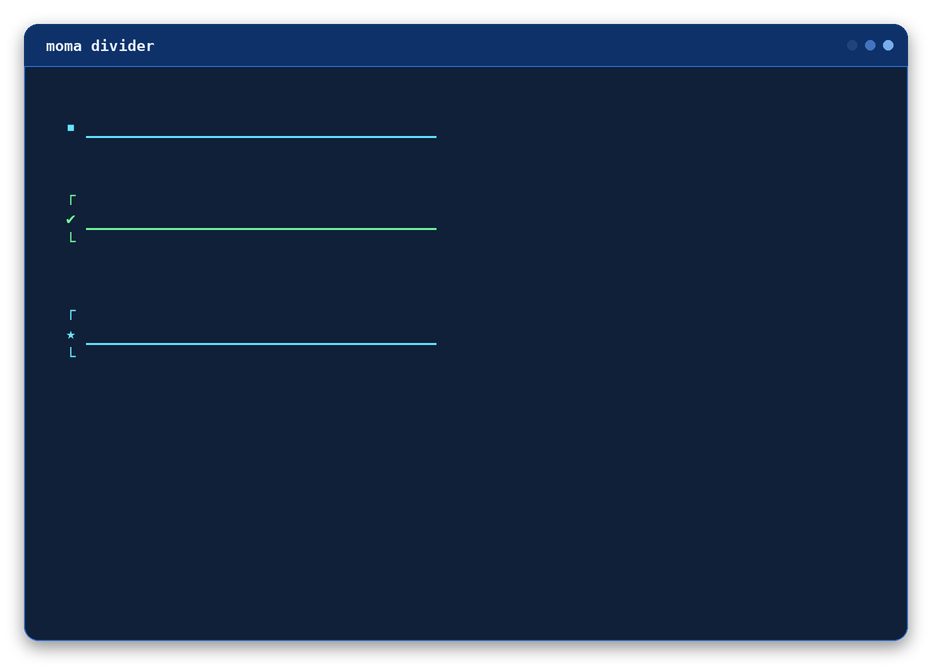
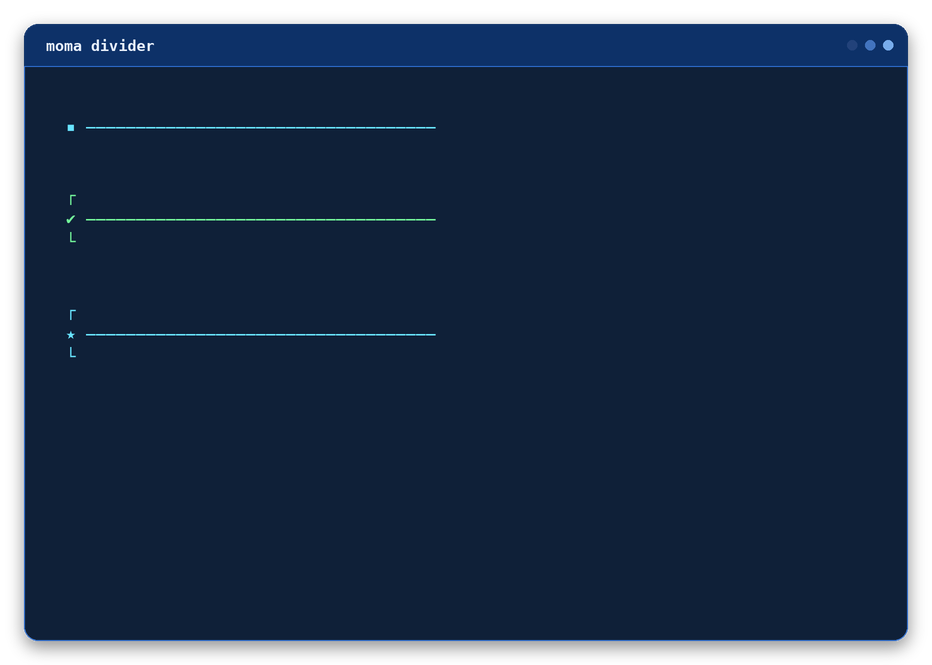
🐛 fix(divider): use em dash instead of the low scan-line character
⎼ (U+23BC HORIZONTAL SCAN LINE-9) sits near the bottom of the cell, not
centered, and looked broken in real terminals. Switch to — (em dash),
which most fonts render as a solid, vertically-centered rule and is
natively covered by the screenshot generator's font too, so the
render.py geometry fallback added for it is no longer needed and is
reverted.

Changed region(s): [[0.0933, 0.3308, 0.4667, 0.3609], [0.0933, 0.1805, 0.4667, 0.2105]]

diff --git a/web/src/data/apiEntries.ts b/web/src/data/apiEntries.ts
@@ -272,7 +272,7 @@ export const API_ENTRIES: ApiEntryData[] = [
     id: 'moma-divider',
     kind: 'Rule component',
     name: 'divider',
-    descriptionHtml: 'Marker-led horizontal rule, for separating sections without a full heading. Uses <code>⎼</code> instead of the <code>─</code> box-drawing character elsewhere in Moma, and has no left box edge, only an optional bare <code>┌</code>/<code>└</code> pair framing the rule above and below.',
+    descriptionHtml: 'Marker-led horizontal rule, for separating sections without a full heading. Uses <code>—</code> (em dash) instead of the <code>─</code> box-drawing character elsewhere in Moma, and has no left box edge, only an optional bare <code>┌</code>/<code>└</code> pair framing the rule above and below.',
     signature: 'moma divider [--success|--error|--warning|--info] [--color color] [--icon char] [--no-icon] [--border mirror|line|open] [--min-width number] [--width number] [--max-width number] [--no-color]',
     searchText: 'moma-divider rule horizontal separator line icon marker border mirror line open success error warning info',
     group: 'visual',

diff --git a/screenshots/moma_screenshots/render.py b/screenshots/moma_screenshots/render.py
@@ -89,12 +89,10 @@ _BLOCK_SHADES = {
     "▒": 0.50,  # ▒ medium shade
     "▓": 0.75,  # ▓ dark shade
 }
-# U+23BA HORIZONTAL SCAN LINE-1 (moma-rabbit's ground line) and U+23BC
-# HORIZONTAL SCAN LINE-9 (moma-divider's rule) are both outside DejaVu Sans
-# Mono's coverage and would otherwise render as tofu boxes; draw each as
-# the thin line near the top/bottom of the cell its name describes.
+# U+23BA HORIZONTAL SCAN LINE-1 (moma-rabbit's ground line) is outside
+# DejaVu Sans Mono's coverage and would otherwise render as a tofu box; draw
+# it as the thin line near the top of the cell its name describes.
 _SCAN_LINE_1 = "⎺"
-_SCAN_LINE_9 = "⎼"
 
 
 def _draw_block_glyph(draw, cx, cy, cell_w, cell_h, data, fg, bg) -> bool:
@@ -128,15 +126,6 @@ def _draw_block_glyph(draw, cx, cy, cell_w, cell_h, data, fg, bg) -> bool:
 
     if data == _SCAN_LINE_1:
         line_y = cy + cell_h * 0.12
-        draw.line(
-            [(cx, line_y), (cx + cell_w, line_y)],
-            fill=(*fg, 255),
-            width=max(1, round(cell_h * 0.08)),
-        )
-        return True
-
-    if data == _SCAN_LINE_9:
-        line_y = cy + cell_h * 0.85
         draw.line(
             [(cx, line_y), (cx + cell_w, line_y)],
             fill=(*fg, 255),

diff --git a/docs/moma-docs.md b/docs/moma-docs.md
@@ -356,11 +356,12 @@ moma resume --title "Moma Terminal UI library" --no-icon --border open \
 ### `moma-divider`
 
 Marker-led horizontal rule, for separating sections without a full
-heading. Uses `⎼` instead of the `─` box-drawing character elsewhere in
-Moma, and has no left box edge, only an optional bare `┌`/`└` pair framing
-the rule above and below. `--icon`, `--no-icon`, and the semantic flags
-work the same way as on `moma-title-sub`; `--border` open (default) prints
-just the rule, while `line` and `mirror` both frame it.
+heading. Uses `—` (em dash) instead of the `─` box-drawing character
+elsewhere in Moma, and has no left box edge, only an optional bare
+`┌`/`└` pair framing the rule above and below. `--icon`, `--no-icon`, and
+the semantic flags work the same way as on `moma-title-sub`; `--border`
+open (default) prints just the rule, while `line` and `mirror` both
+frame it.
 
 ```text
 moma divider [--success|--error|--warning|--info] [--color color] [--icon char] [--no-icon] [--border mirror|line|open] [--min-width number] [--width number] [--max-width number] [--no-color]
